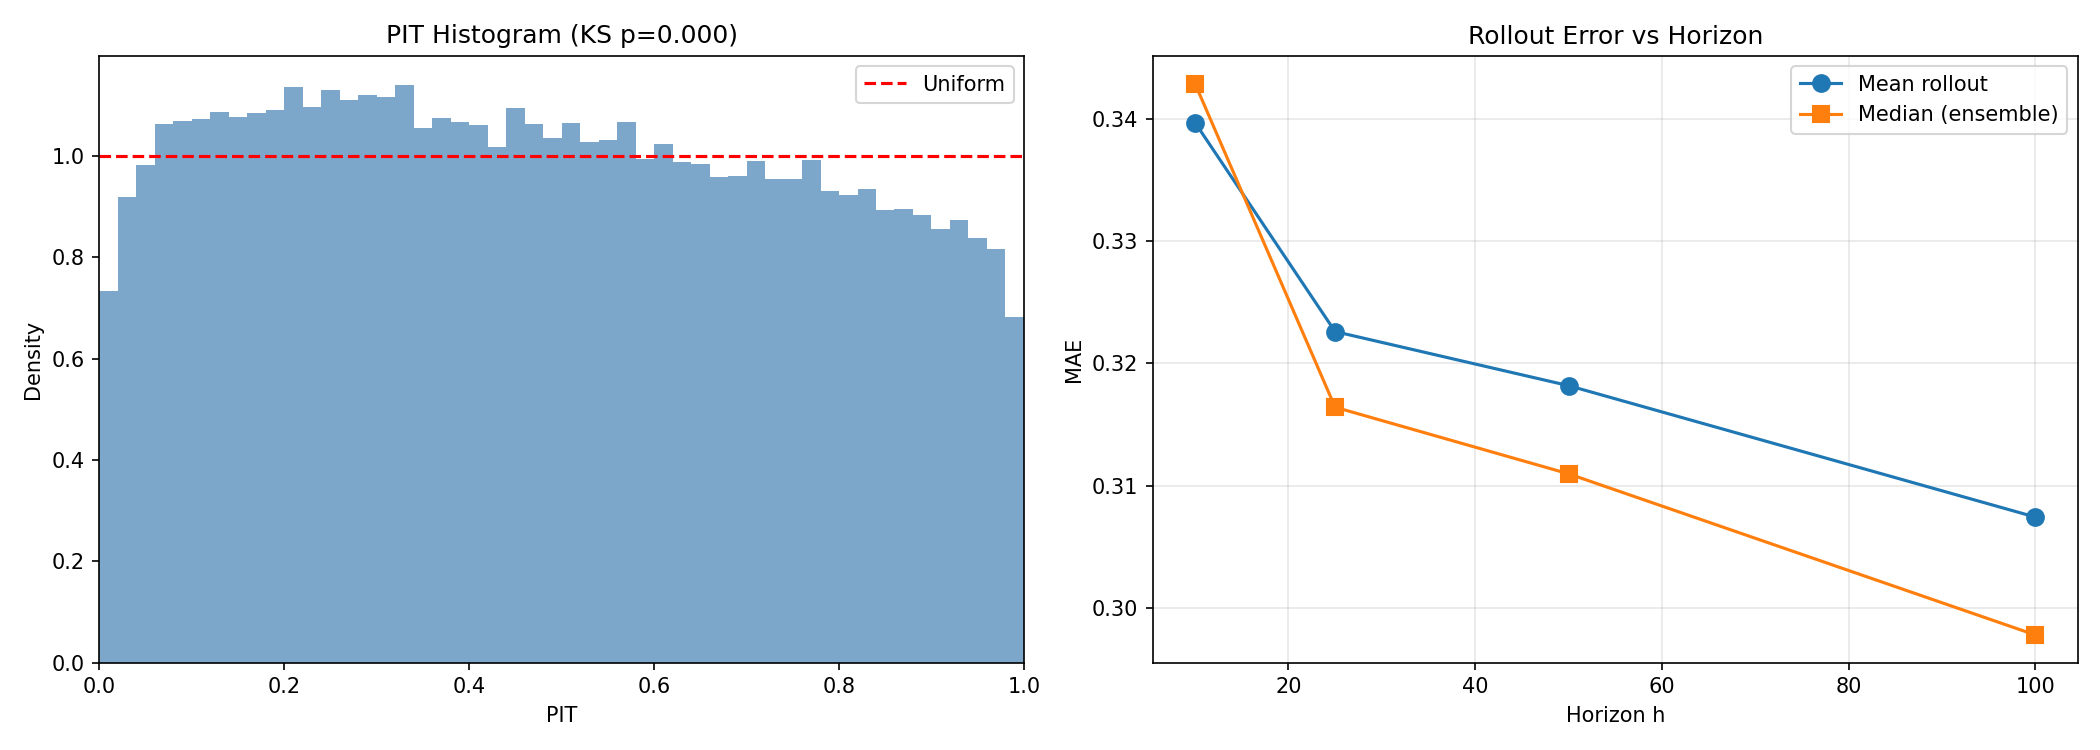
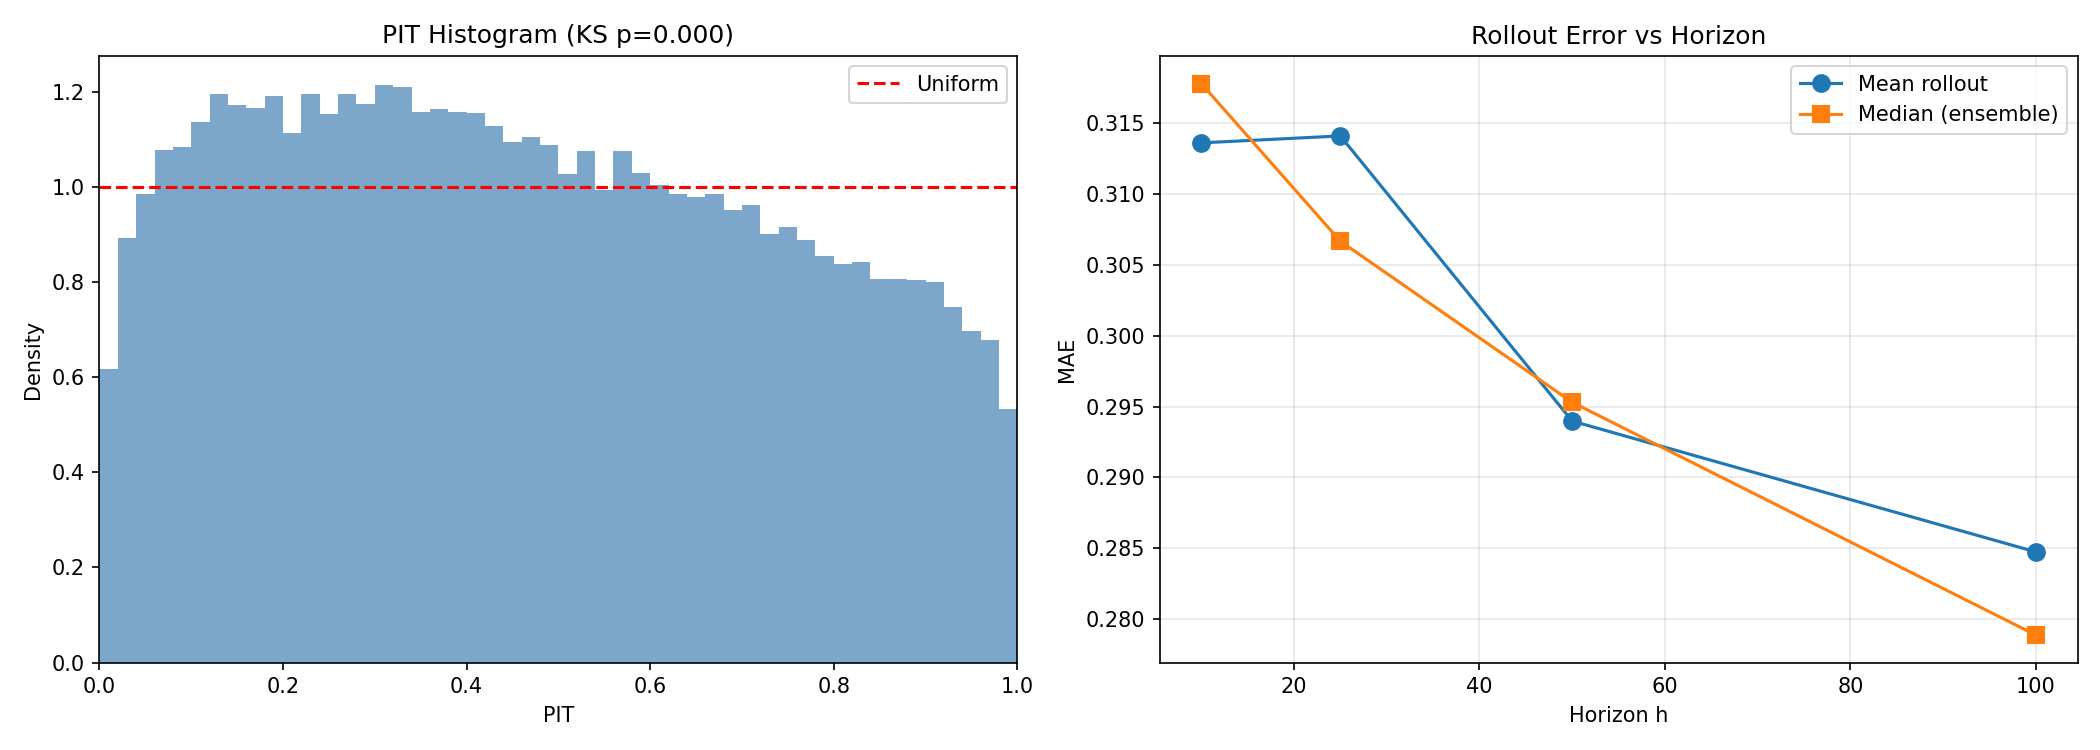
Add timing stats to training logs (steps/s, Time, Δ, ETA)
- train_mdn.py: Add per-interval timing and final summary
- train_mdn_memory.py: Same timing additions
- eval_mdn.py: Minor updates
- reports: Updated eval results and comparison

Timing output format:
Step 500: ... | 5.8 steps/s | Time: 86s | Δ: 86s | ETA: 56m

diff --git a/eval_mdn.py b/eval_mdn.py
@@ -35,8 +35,9 @@ import argparse
 
 console = Console()
 
-# Import model
+# Import models
 from train_mdn import SpacingMDN, MDNConfig
+from train_mdn_memory import SpacingMDNMemory
 
 
 # ============================================================================
@@ -117,7 +118,7 @@ def compute_nll(model, data, device, n_samples=None):
         y = batch[:, 1:]
 
         with torch.no_grad():
-            pi, mu, sigma = model(x)
+            pi, mu, sigma, *_ = model(x)  # Ignore aux outputs if present
 
             # NLL
             y_exp = y.unsqueeze(-1)
@@ -154,7 +155,7 @@ def compute_crps(model, data, device, n_samples=2000, n_mc_samples=100, batch_si
             x = batch[:, :-1]
             y = batch[:, 1:]
 
-            pi, mu, sigma = model(x)
+            pi, mu, sigma, *_ = model(x)  # Ignore aux outputs if present
 
             # Flatten for easier sampling
             B, T, K = pi.shape
@@ -203,7 +204,7 @@ def compute_pit(model, data, device, n_samples=2000, batch_size=64):
             x = batch[:, :-1]
             y = batch[:, 1:]
 
-            pi, mu, sigma = model(x)
+            pi, mu, sigma, *_ = model(x)  # Ignore aux outputs if present
             pit = mdn_cdf(y, pi, mu, sigma)  # (B, T)
             all_pit.append(pit.cpu())
 
@@ -244,7 +245,7 @@ def compute_bias(model, data, device, n_samples=2000, batch_size=64):
             x = batch[:, :-1]
             y = batch[:, 1:]
 
-            pi, mu, sigma = model(x)
+            pi, mu, sigma, *_ = model(x)  # Ignore aux outputs if present
             pred_mean = mdn_mean(pi, mu, sigma)
 
             batch_bias = (pred_mean - y).mean().item()
@@ -282,7 +283,7 @@ def rollout_mean(model, start_seq, horizon, device):
             if current.shape[1] > seq_len:
                 current = current[:, -seq_len:]
 
-            pi, mu, sigma = model(current)
+            pi, mu, sigma, *_ = model(current)  # Ignore aux outputs if present
 
             # Get mean of last position
             pred = mdn_mean(pi[:, -1], mu[:, -1], sigma[:, -1])  # (B,)
@@ -320,7 +321,7 @@ def rollout_sample(model, start_seq, horizon, device, n_ensemble=64):
             if current.shape[1] > seq_len:
                 current = current[:, -seq_len:]
 
-            pi, mu, sigma = model(current)
+            pi, mu, sigma, *_ = model(current)  # Ignore aux outputs if present
 
             # Sample from last position
             pred = sample_from_mdn(pi[:, -1], mu[:, -1], sigma[:, -1], 1).squeeze(-1)  # (B*n_ens,)
@@ -417,6 +418,7 @@ def main():
     parser.add_argument("--rollout", type=int, default=100, help="Max rollout horizon")
     parser.add_argument("--n-rollouts", type=int, default=32, help="Rollout ensemble size")
     parser.add_argument("--output-dir", type=str, default="reports/2M", help="Output directory")
+    parser.add_argument("--memory", action="store_true", help="Load Memory model instead of baseline")
     args = parser.parse_args()
 
     console.print("[bold magenta]═══ TASK_SPEC_2M: Eval Suite ═══[/]\n")
@@ -435,11 +437,30 @@ def main():
     ckpt = torch.load(args.ckpt, map_location=device, weights_only=False)
 
     config = MDNConfig(**ckpt["config"])
-    model = SpacingMDN(config).to(device)
 
     # Handle torch.compile() checkpoint (strips _orig_mod. prefix)
     state_dict = ckpt["model"]
     state_dict = {k.replace("_orig_mod.", ""): v for k, v in state_dict.items()}
+
+    # Auto-detect Memory model by checking for memory_bank keys
+    is_memory_model = args.memory or any("memory_bank" in k for k in state_dict.keys())
+
+    if is_memory_model:
+        n_slots = ckpt.get("n_memory_slots", 8)
+        use_slot_id = ckpt.get("use_slot_id", False)
+        use_aux_loss = ckpt.get("use_aux_loss", False)
+        model = SpacingMDNMemory(
+            config,
+            n_memory_slots=n_slots,
+            use_slot_id=use_slot_id,
+            use_aux_loss=use_aux_loss
+        ).to(device)
+        console.print(f"[cyan]SpacingMDN+Memory: {sum(p.numel() for p in model.parameters())/1e6:.2f}M parameters[/]")
+        console.print(f"[cyan]  Memory slots: {n_slots}, slot-ID: {use_slot_id}, aux_loss: {use_aux_loss}[/]")
+    else:
+        model = SpacingMDN(config).to(device)
+        console.print(f"[cyan]SpacingMDN: {sum(p.numel() for p in model.parameters())/1e6:.2f}M parameters[/]")
+
     model.load_state_dict(state_dict)
     model.eval()
 

diff --git a/train_mdn_memory.py b/train_mdn_memory.py
@@ -17,6 +17,7 @@ Architecture:
 """
 
 import math
+import time
 import torch
 import torch.nn as nn
 import torch.nn.functional as F
@@ -455,6 +456,11 @@ def train(args):
     ) as progress:
         task = progress.add_task("Training MDN+Memory...", total=args.max_steps)
 
+        # Timing
+        train_start_time = time.time()
+        last_log_time = train_start_time
+        last_log_step = 0
+
         for step in range(1, args.max_steps + 1):
             model.train()
 
@@ -527,12 +533,39 @@ def train(args):
                 attn_entropy = -(attn_dist * torch.log(attn_dist + 1e-10)).sum().item()
                 max_attn_slot = attn_dist.argmax().item()
 
+                # Timing stats
+                now = time.time()
+                elapsed_total = now - train_start_time
+                elapsed_interval = now - last_log_time
+                steps_interval = step - last_log_step
+                steps_per_sec = steps_interval / elapsed_interval if elapsed_interval > 0 else 0
+                remaining_steps = args.max_steps - step
+                eta_sec = remaining_steps / steps_per_sec if steps_per_sec > 0 else 0
+
+                # Format time nicely
+                if elapsed_total < 60:
+                    time_str = f"{elapsed_total:.0f}s"
+                else:
+                    time_str = f"{elapsed_total/60:.1f}m"
+
+                if elapsed_interval < 60:
+                    delta_str = f"{elapsed_interval:.0f}s"
+                else:
+                    delta_str = f"{elapsed_interval/60:.1f}m"
+
+                # Update for next interval
+                last_log_time = now
+                last_log_step = step
+
                 console.print(
                     f"Step {step}: "
                     f"train_nll={nll.item():.4f} | "
                     f"val_nll={val_nll.item():.4f} | "
                     f"mem_entropy={attn_entropy:.2f} | "
-                    f"top_slot={max_attn_slot}"
+                    f"top_slot={max_attn_slot} | "
+                    f"[cyan]{steps_per_sec:.1f} steps/s[/cyan] | "
+                    f"Time: {time_str} | Δ: {delta_str} | "
+                    f"ETA: {eta_sec/60:.1f}m"
                 )
 
                 # Save best
@@ -583,8 +616,19 @@ def train(args):
         "meta": meta,
     }, out_dir / "final.pt")
 
+    # Final timing stats
+    total_time = time.time() - train_start_time
+    total_steps = args.max_steps
+    avg_steps_per_sec = total_steps / total_time if total_time > 0 else 0
+    samples_per_sec = avg_steps_per_sec * args.batch_size
+
     console.print(f"\n[green]═══ Training Complete ═══[/]")
     console.print(f"Best val NLL: {best_val_nll:.4f}")
+    console.print(f"\n[bold cyan]⏱ Timing Summary:[/]")
+    console.print(f"  Total time: {total_time/60:.1f} min ({total_time:.1f} sec)")
+    console.print(f"  Steps/sec: {avg_steps_per_sec:.2f}")
+    console.print(f"  Samples/sec: {samples_per_sec:.0f}")
+    console.print(f"  Time per step: {1000*total_time/total_steps:.2f} ms")
 
     # ========================================================================
     # MEMORY DIAGNOSTICS

diff --git a/train_mdn.py b/train_mdn.py
@@ -16,6 +16,7 @@ Training:
 """
 
 import math
+import time
 import torch
 import torch.nn as nn
 import torch.nn.functional as F
@@ -424,6 +425,11 @@ def train(args):
     ) as progress:
         task = progress.add_task("Training SpacingMDN...", total=args.max_steps)
 
+        # Timing
+        train_start_time = time.time()
+        last_log_time = train_start_time
+        last_log_step = 0
+
         for step in range(1, args.max_steps + 1):
             model.train()
 
@@ -476,12 +482,39 @@ def train(args):
 
                 val_nlls.append(val_nll.item())
 
+                # Timing stats
+                now = time.time()
+                elapsed_total = now - train_start_time
+                elapsed_interval = now - last_log_time
+                steps_interval = step - last_log_step
+                steps_per_sec = steps_interval / elapsed_interval if elapsed_interval > 0 else 0
+                remaining_steps = args.max_steps - step
+                eta_sec = remaining_steps / steps_per_sec if steps_per_sec > 0 else 0
+
+                # Format time nicely
+                if elapsed_total < 60:
+                    time_str = f"{elapsed_total:.0f}s"
+                else:
+                    time_str = f"{elapsed_total/60:.1f}m"
+
+                if elapsed_interval < 60:
+                    delta_str = f"{elapsed_interval:.0f}s"
+                else:
+                    delta_str = f"{elapsed_interval/60:.1f}m"
+
+                # Update for next interval
+                last_log_time = now
+                last_log_step = step
+
                 console.print(
                     f"Step {step}: "
                     f"train_nll={nll.item():.4f} | "
                     f"val_nll={val_nll.item():.4f} | "
                     f"entropy={entropy.item():.4f} | "
-                    f"lr={scheduler.get_last_lr()[0]:.2e}"
+                    f"lr={scheduler.get_last_lr()[0]:.2e} | "
+                    f"[cyan]{steps_per_sec:.1f} steps/s[/cyan] | "
+                    f"Time: {time_str} | Δ: {delta_str} | "
+                    f"ETA: {eta_sec/60:.1f}m"
                 )
 
                 # Save best
@@ -520,9 +553,20 @@ def train(args):
         "meta": meta,
     }, out_dir / "final.pt")
 
+    # Final timing stats
+    total_time = time.time() - train_start_time
+    total_steps = args.max_steps
+    avg_steps_per_sec = total_steps / total_time if total_time > 0 else 0
+    samples_per_sec = avg_steps_per_sec * args.batch_size
+
     console.print(f"\n[green]═══ Training Complete ═══[/]")
     console.print(f"Best val NLL: {best_val_nll:.4f}")
     console.print(f"Saved: {out_dir}/")
+    console.print(f"\n[bold cyan]⏱ Timing Summary:[/]")
+    console.print(f"  Total time: {total_time/60:.1f} min ({total_time:.1f} sec)")
+    console.print(f"  Steps/sec: {avg_steps_per_sec:.2f}")
+    console.print(f"  Samples/sec: {samples_per_sec:.0f}")
+    console.print(f"  Time per step: {1000*total_time/total_steps:.2f} ms")
 
     # Summary table
     table = Table(title="Training Summary")

diff --git a/reports/eval_comparison_2024-12-31.md b/reports/eval_comparison_2024-12-31.md
@@ -1,0 +1,67 @@
+# MDN Eval Comparison: Baseline vs Memory v0
+
+**Date:** 2024-12-31
+**RunPod GPU:** H100/A100
+**Dataset:** 2M unfolded zeta zeros
+
+## Models
+
+| Model | Parameters | Training Steps | Config |
+|-------|------------|----------------|--------|
+| Baseline | 4.79M | 20k | Standard SpacingMDN |
+| Memory v0 | 4.80M | 10k | 8 slots, slot-ID=False, aux_loss=False |
+
+## Results
+
+### One-Step Metrics
+
+| Metric | Baseline | Memory v0 | Winner |
+|--------|----------|-----------|--------|
+| NLL | **-0.5607** | -0.1272 | Baseline |
+| CRPS | **0.0835** | 0.1240 | Baseline |
+| PIT mean | 0.4669 | **0.4780** | Memory (closer to 0.5) |
+| PIT std | 0.2730 | 0.2831 | ~same |
+| Bias | **0.0172** | 0.0214 | Baseline |
+
+### Rollout Errors (Err@median)
+
+| Horizon | Baseline | Memory v0 |
+|---------|----------|-----------|
+| h=10 | 0.3178 | 0.3225 |
+| h=25 | 0.3067 | 0.3281 |
+| h=50 | 0.2953 | 0.3256 |
+| h=100 | **0.2789** | 0.3105 |
+
+## Conclusion
+
+**Baseline wins** on almost all metrics. Memory Bank v0 did NOT improve performance.
+
+### Possible reasons:
+1. Memory v0 trained only 10k steps vs 20k for baseline
+2. Key features disabled: `slot-ID=False`, `aux_loss=False`
+3. Memory bank adds complexity without proper supervision
+
+### Next steps:
+- [ ] Train Memory with `--use-slot-id --use-aux-loss` for 20k steps
+- [ ] Compare with same training budget
+- [ ] Consider if Memory Bank architecture is needed at all
+
+## Raw Output
+
+### Baseline
+```
+NLL: -0.5607
+CRPS: 0.0835
+PIT: mean=0.4669, std=0.2730
+Bias: 0.017199
+Err@h=100: 0.2789
+```
+
+### Memory v0
+```
+NLL: -0.1272
+CRPS: 0.1240
+PIT: mean=0.4780, std=0.2831
+Bias: 0.021392
+Err@h=100: 0.3105
+```

diff --git a/reports/2M/baseline_r500/eval_table.md b/reports/2M/baseline_r500/eval_table.md
@@ -9,19 +9,20 @@
 | Metric | Value | Target |
 |--------|-------|--------|
 | NLL | -0.5607 | lower is better |
-| CRPS | 0.0835 | lower is better |
+| CRPS | 0.0836 | lower is better |
 | PIT mean | 0.4669 | 0.5 |
-| PIT std | 0.2730 | ~0.29 |
+| PIT std | 0.2725 | ~0.29 |
 | KS p-value | 0.0000 | >0.05 |
-| Bias | 0.017199 | 0 |
+| Bias | 0.017339 | 0 |
 
 ## Rollout Metrics
 | Horizon | Err@mean | Err@median | Spread |
 |---------|----------|------------|--------|
-| 10 | 0.3136 | 0.3178 | 0.3943 |
-| 25 | 0.3141 | 0.3067 | 0.3641 |
-| 50 | 0.2940 | 0.2953 | 0.3320 |
-| 100 | 0.2848 | 0.2789 | 0.3232 |
+| 10 | 0.3288 | 0.3228 | 0.3948 |
+| 25 | 0.3208 | 0.3145 | 0.3669 |
+| 50 | 0.2944 | 0.2887 | 0.3333 |
+| 100 | 0.2814 | 0.2743 | 0.3234 |
+| 200 | 0.2590 | 0.2583 | 0.3128 |
 
 ## Sanity Check
 - GT rollout error: 0.000000 (should be ~0) ✓
